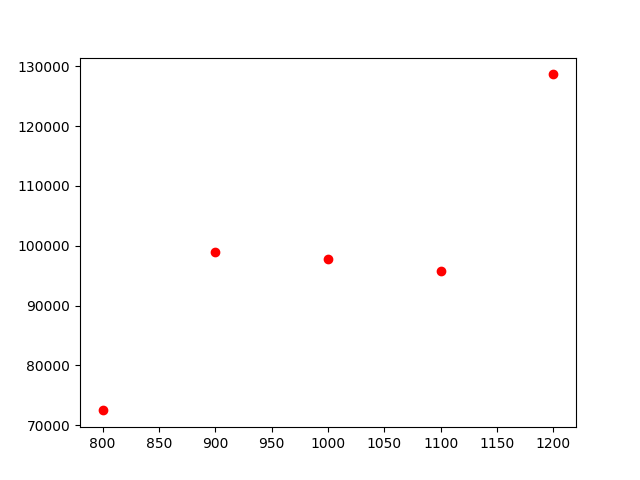
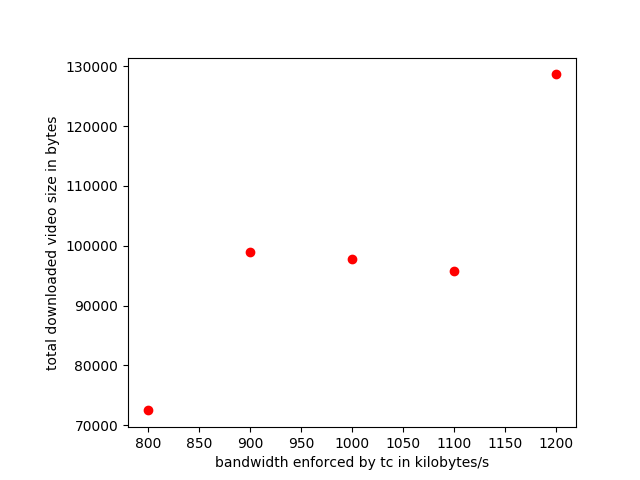
adding readme

diff --git a/experiments/2_automate_bandwidth_enforcement/plot.py b/experiments/2_automate_bandwidth_enforcement/plot.py
@@ -38,6 +38,9 @@ for movie_id in lookup:
 
     # plot
     plt.plot(x, y, "ro")
+    plt.xlabel("bandwidth enforced by tc in kilobytes/s")
+    plt.ylabel("total downloaded video size in bytes")
+    plt.subplots_adjust(right=0.9, left=0.2)
     plt.savefig(config.plot_dir + "/" + str(movie_id) + "_attack_bandwidth.png")
     plt.close()
 
@@ -65,7 +68,9 @@ for movie_id in lookup:
 # place label to the right
 plt.legend(loc=(1.04, 0))
 plt.tight_layout()
-plt.subplots_adjust(right=0.75)
+plt.subplots_adjust(right=0.75, left=0.15, bottom=0.1)
+plt.xlabel("bandwidth enforced by tc in kilobytes/s")
+plt.ylabel("total downloaded video size in bytes")
 
 # save
 filename = hashlib.md5(movie_ids.encode()).hexdigest()

diff --git a/experiments/2_automate_bandwidth_enforcement/README.MD b/experiments/2_automate_bandwidth_enforcement/README.MD
@@ -1,0 +1,3 @@
+This experiment restrict the bandwidth, and then measures how much video traffic was passed.
+
+We have removed all content which is not necessary to understand the code. Feel free to go back to the commit @28a016 at 18.04.2018 12:40 if you miss something.
